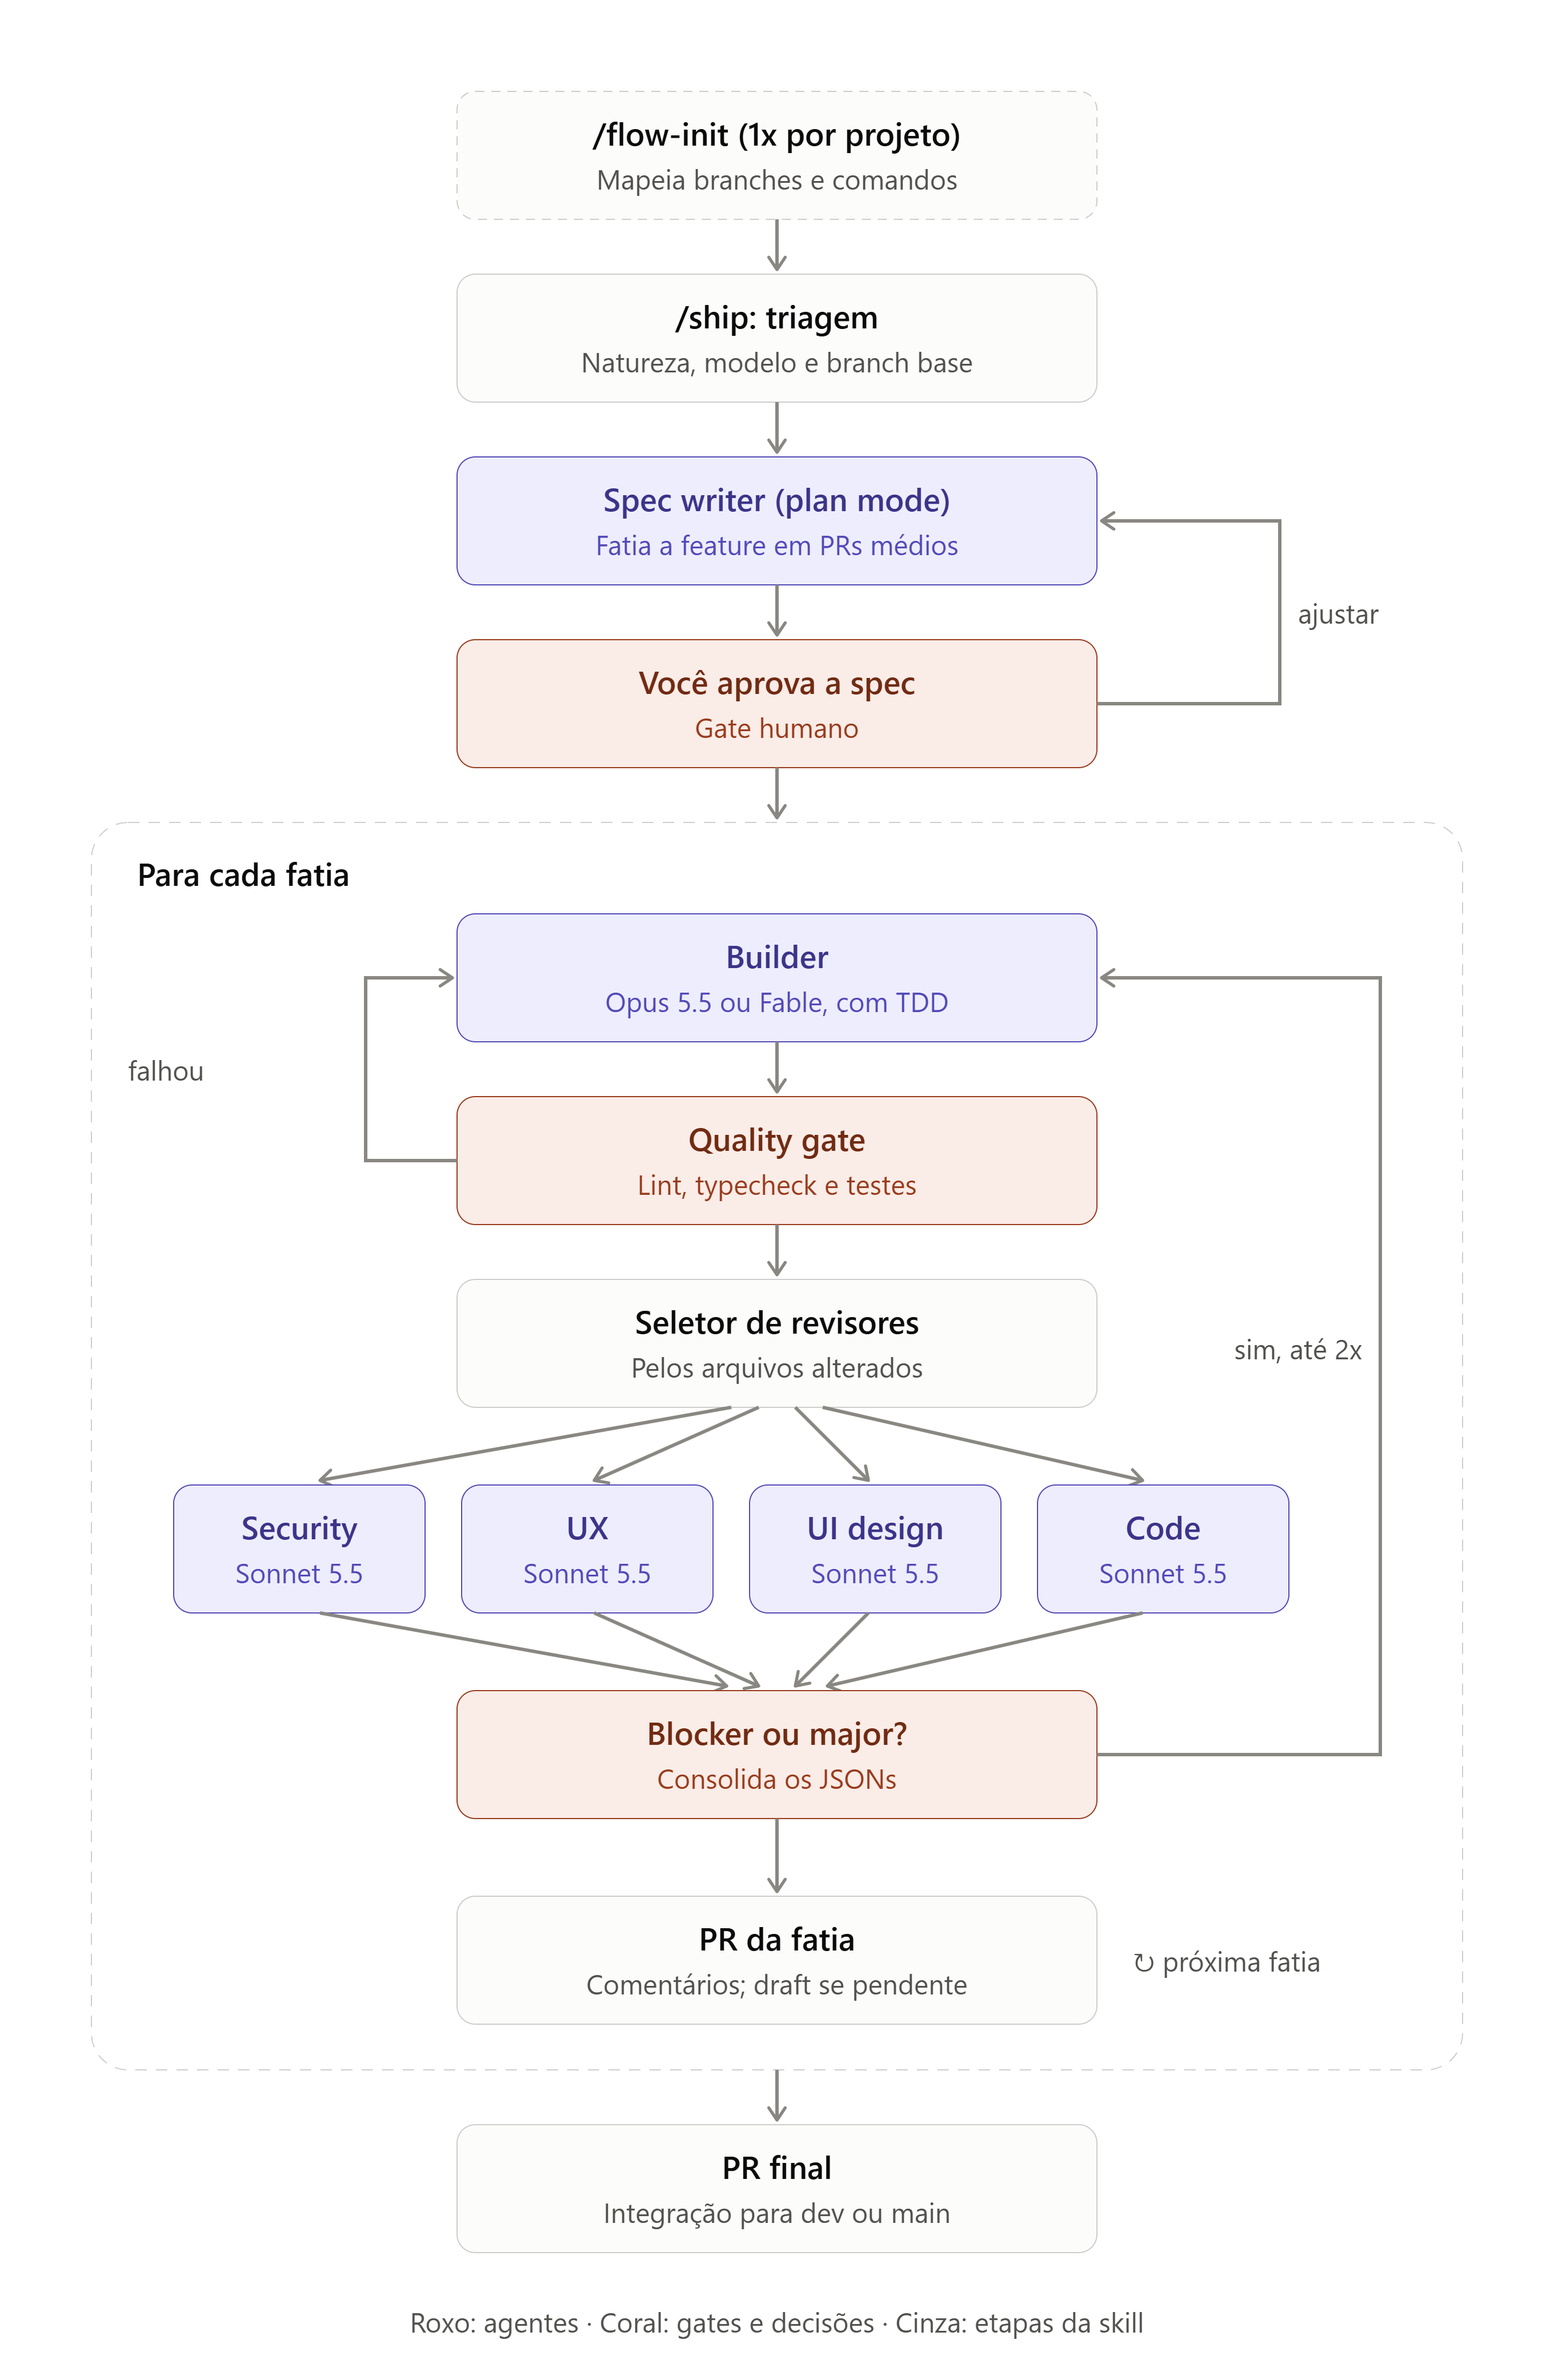
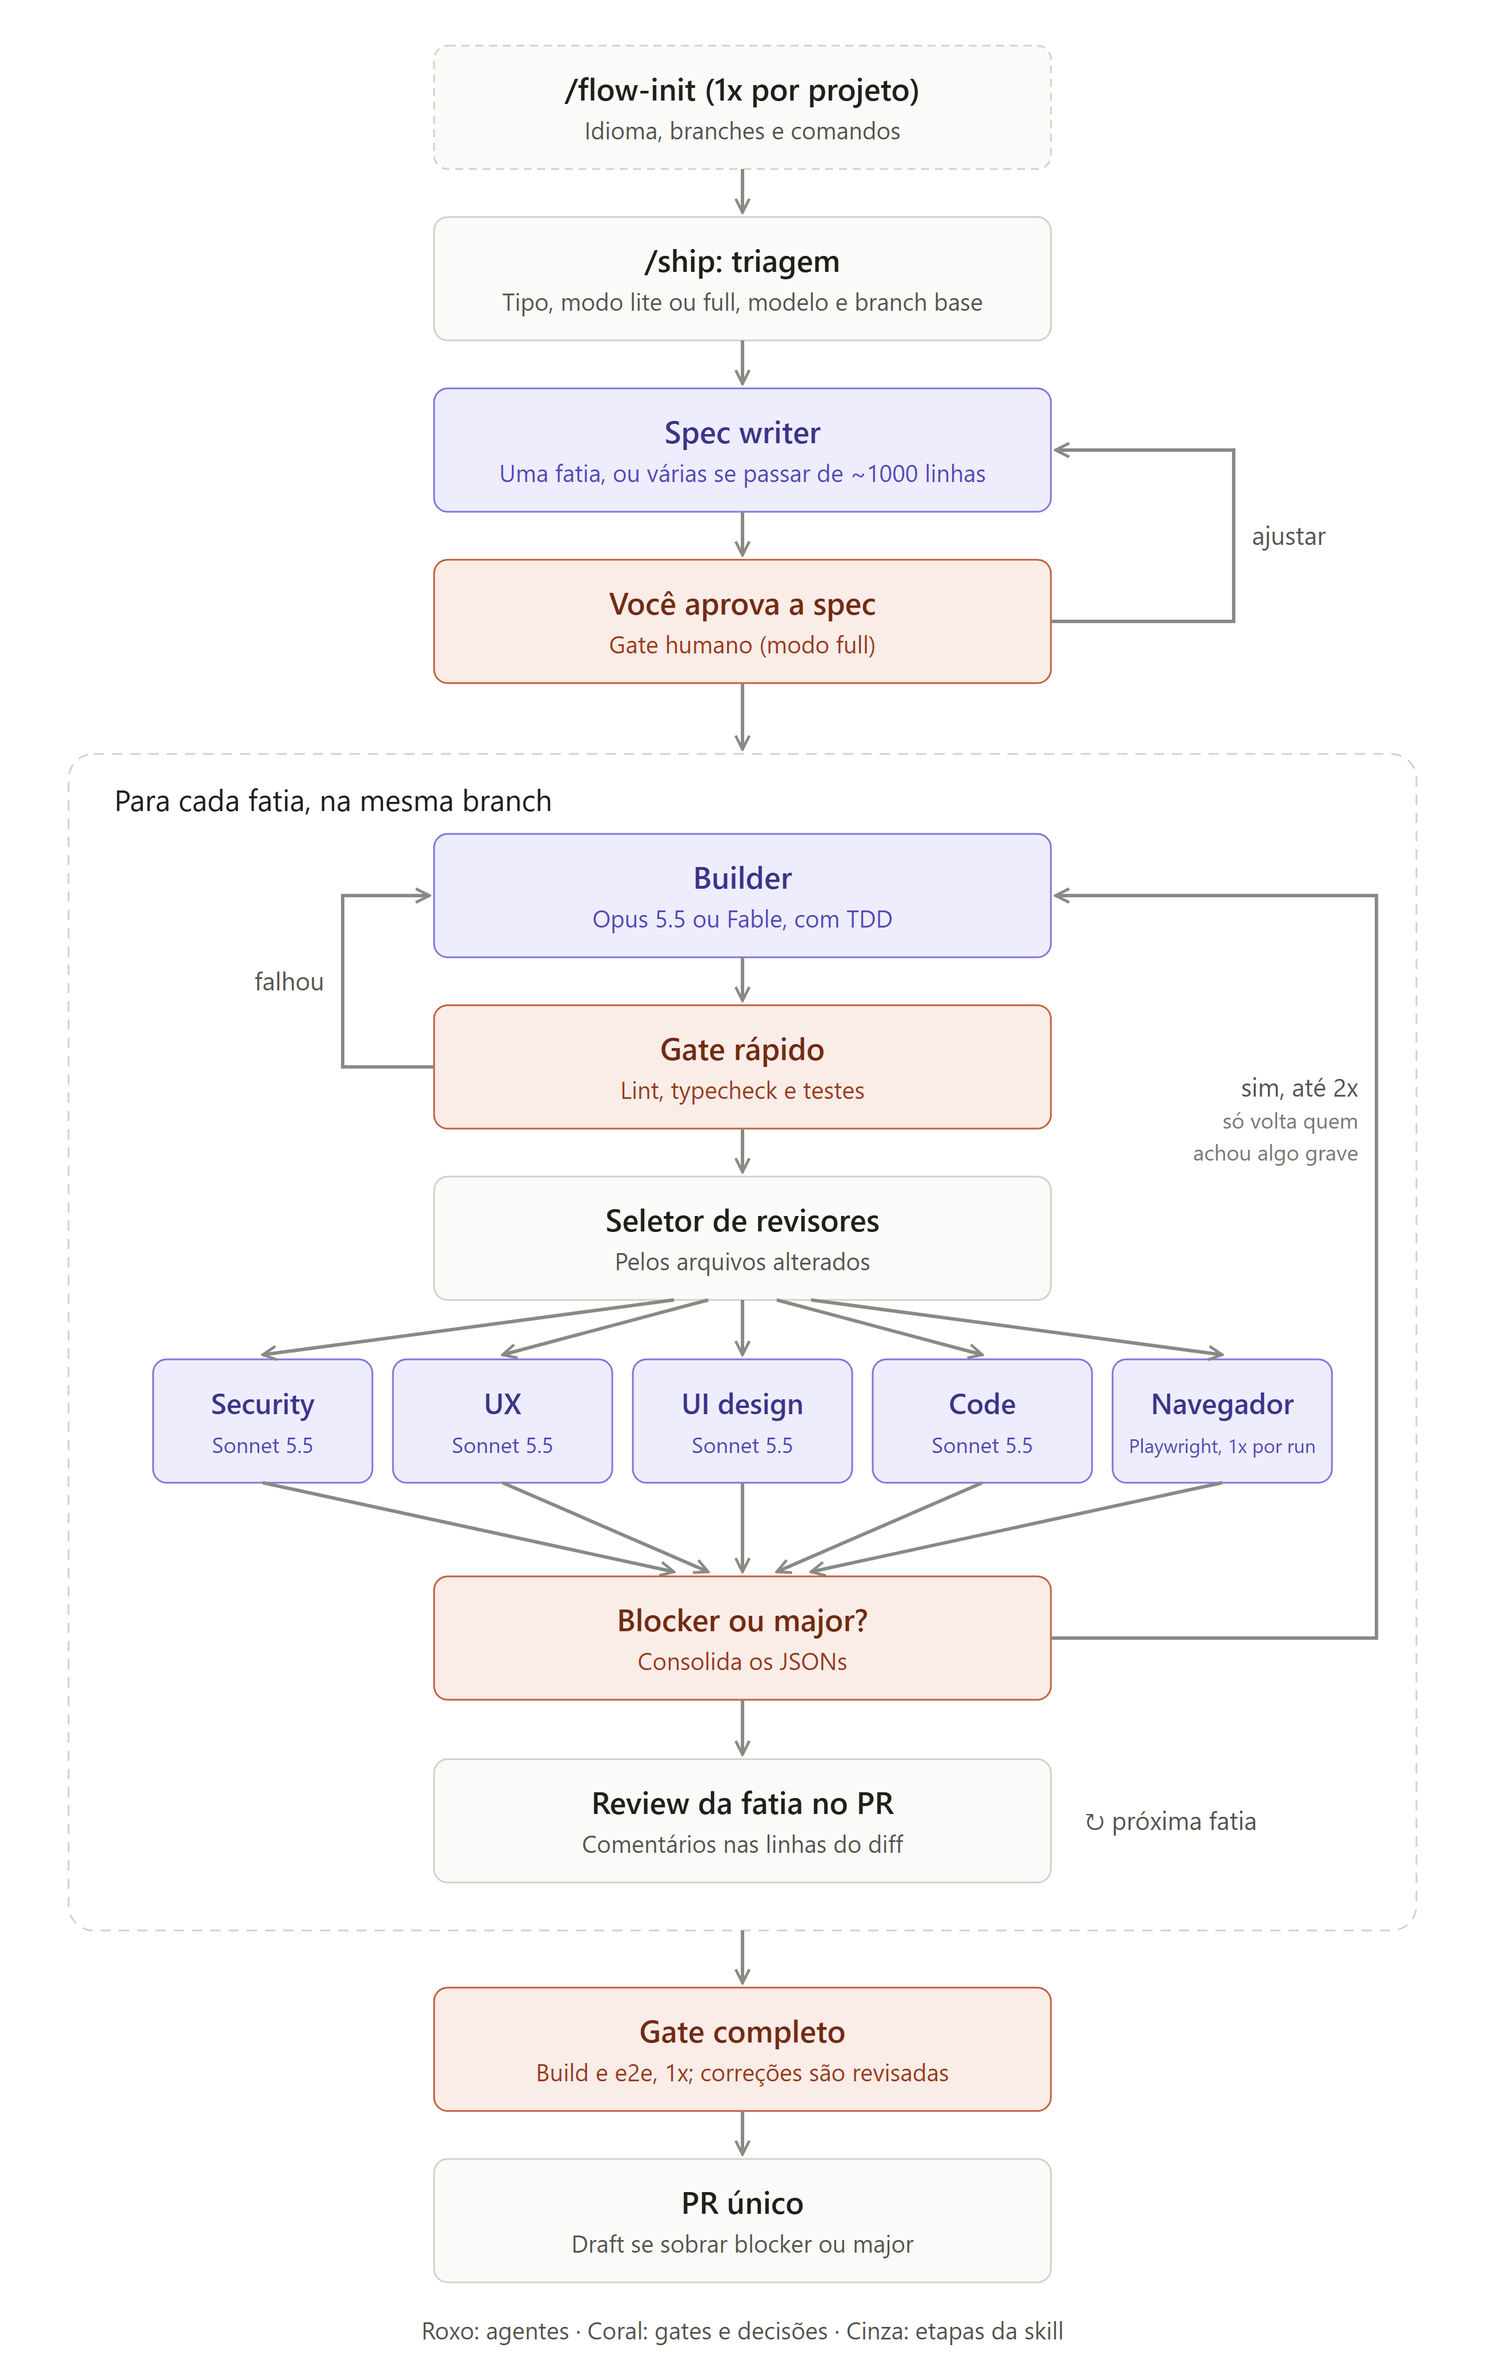
docs(readme): redraw the flow diagram for 0.3.2 and add an English version

diff --git a/README.pt-BR.md b/README.pt-BR.md
@@ -11,7 +11,7 @@ Este repositório é, ao mesmo tempo, o plugin e o marketplace que o distribui.
 ## Como funciona
 
 <p align="center">
-  <img src="docs/images/flow-pt-BR.png" alt="Fluxo do /flow-init e do /ship: triagem, spec, gate humano, builder com TDD, quality gate, revisores em paralelo, loop de correção e PRs" width="640">
+  <img src="docs/images/flow-pt-BR.png" alt="Fluxo do /flow-init e do /ship: triagem, spec, gate humano, builder com TDD, gate rápido, revisores e navegador em paralelo, loop de correção, review da fatia, gate completo e PR único" width="640">
 </p>
 
 ```

diff --git a/README.md b/README.md
@@ -11,7 +11,7 @@ This repository is both the plugin and the marketplace that distributes it.
 ## How it works
 
 <p align="center">
-  <img src="docs/images/flow-pt-BR.png" alt="Flow diagram (in Portuguese): /flow-init, /ship triage, spec writer, human gate, TDD builder, quality gate, parallel reviewers, fix loop and PRs" width="640">
+  <img src="docs/images/flow-en.png" alt="Flow diagram: /flow-init, /ship triage, spec writer, human gate, TDD builder, fast gate, parallel reviewers and browser, fix loop, slice review, full gate and a single PR" width="640">
 </p>
 
 ```
